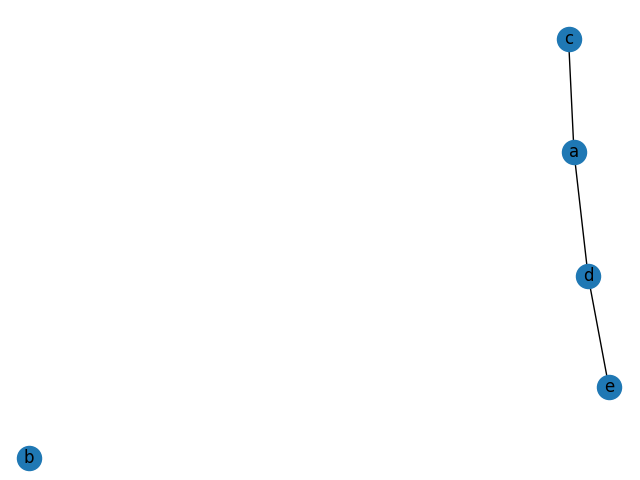
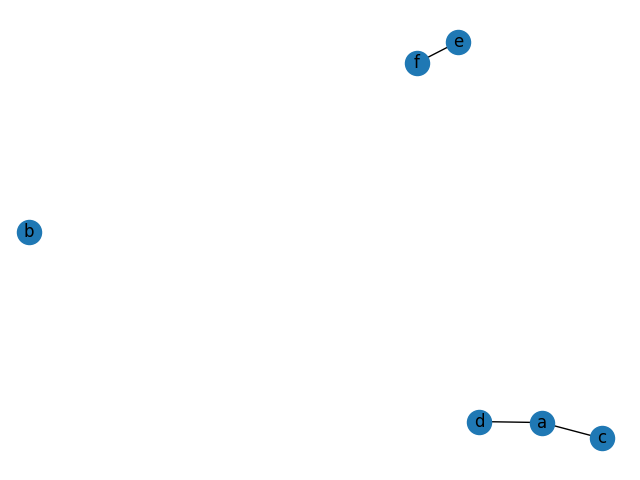
final commit

diff --git a/CPC_realization.py b/CPC_realization.py
@@ -50,7 +50,8 @@ class Realization:
                 if (min(self.vector_of_segments[i][0], self.vector_of_segments[i + 1][0]) < x < max(
                         self.vector_of_segments[i][0], self.vector_of_segments[i + 1][0])) and (min(
                     self.vector_of_segments[j][0], self.vector_of_segments[(j + 1) % n][0]) < x < max(
-                    self.vector_of_segments[j][0], self.vector_of_segments[(j + 1) % n][0])):
+                    self.vector_of_segments[j][0], self.vector_of_segments[(j + 1) % n][0])) and (abs(i - j) != 1) and\
+                        (i != 1 and j != (n - 1)):
                     self.graph.add_edge(alphabet[i], alphabet[j])
         nx.draw(self.graph, with_labels=True)
         plt.savefig("graph.png")

diff --git a/drawing_window.py b/drawing_window.py
@@ -80,11 +80,11 @@ class DrawingWindow(QWidget):
 
     def mousePressEvent(self, event):
         if self.drawing_mode:
-            self.realization.add_vertex(self.x, self.y)
 
             # If current vertex is too close to the first one, polygonal chain closes.
             if abs(self.realization.vector_of_segments[0][0] - event.x()) > 10 or abs(
                     self.realization.vector_of_segments[0][1] - event.y()) > 10:
+                self.realization.add_vertex(self.x, self.y)
                 self.x = event.x()
                 self.y = event.y()
             else:

diff --git a/main_window.py b/main_window.py
@@ -112,7 +112,7 @@ class Window(QMainWindow):
         self.link_article.setText(' ->  ' + link_template)
         self.vert_layout.addWidget(self.link_article)
 
-        link_template = '<a href=https://Google.com>Link to the database.</a>'
+        link_template = '<a href=https://console.firebase.google.com/project/cpc-graphs/storage/cpc-graphs.appspot.com/files>Link to the database.</a>'
         self.link_db = HyperlinkLabel(self)
         self.link_db.setText(' ->  ' + link_template)
         self.vert_layout.addWidget(self.link_db)

diff --git a/main.py b/main.py
@@ -25,6 +25,7 @@ if __name__ == "__main__":
 
     for file in os.listdir('C:\\Users\\Kate\\PycharmProjects\\CPC_Graphs'):
         if file.endswith('.jpeg'):
+            print(file)
             storage.child(file).put(file)
 
     sys.exit()

diff --git a/README.md b/README.md
@@ -1,3 +1,36 @@
 # CPC Graph Constructor
 Tool for creating polygonal chains (by hands or by set of coordinates) and generating their CPC-graphs. 
 Was used to complete and check results of the paper **Graphs of Intersection of Closed Polygonal Chains**, DOI: https://doi.org/10.33581/2520-6508-2021-1-54-68.
+
+## Main functions
+Main window provides functions for creating and analyzing polygonal chains.
+
+![](example_pictures/main_window.png)
+
+**Create Chain** button creates a window where user can create his own polygonal chain for 
+future investigations. 
+
+![](example_pictures/create_chain.png)
+
+**Show realization** allows you to view your chain and save it as a *.jpeg* file in which the 
+corresponding graph is encoded. This CPC-grap and it's realization will be uploaded to a 
+Database of CPC-graphs.
+
+![](example_pictures/show_chain.png)
+
+## Graph analysis
+
+This part of the application performs the function of recognizing CPC-graphs. 
+The problem of recognizing the CPC-graph is an NP-hard problem, and to simplify 
+the task, the graph entered by the user is checked for a number of necessary 
+properties of the CLC of the graph: 
+-- hamiltonian cycle in complement graph, 
+-- upper bounds for number of segments,
+-- forbidden subgraphs,
+-- properties for path, cycle or regular graphs,
+-- searching appropriate graph in the Database.
+
+One can upload graph from *.json*, *.txt* files or paste it's description in 
+text editor. After analysis there will appear a result of information properties.
+
+![](example_pictures/graph_analysis.png)
